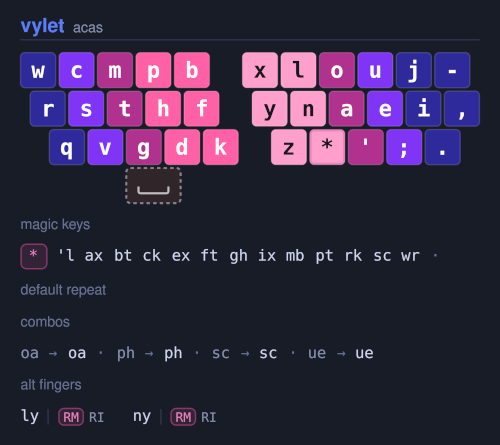
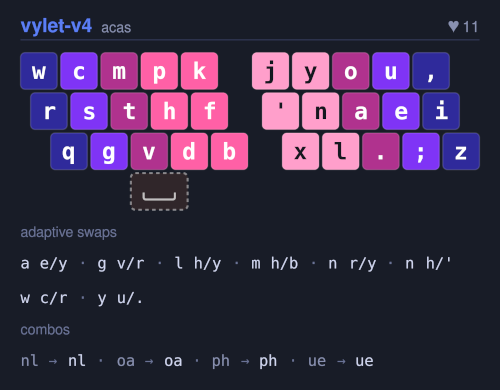
Update vylet to v4

diff --git a/vylet/keymap.c b/vylet/keymap.c
@@ -21,15 +21,14 @@ bool remember_last_key_user(uint16_t keycode, keyrecord_t* record, uint8_t* reme
 // ^ DO NOT MODIFY
 
 
-// w c m p b x l o u j -
-//  r s t h f y n a e i ,
-//   q v g d k z * ' ; .
+// w c m p k j y o u ,
+//  r s t h f ' n a e i
+//   q g v d b x l . ; z
 
 // EXAMPLE KEYMAP
 const uint16_t PROGMEM keymaps[][MATRIX_ROWS][MATRIX_COLS] = {
-    [0] = LAYOUT_all(KC_ESC, KC_1, KC_2, KC_3, KC_4, KC_5, KC_6, KC_7, KC_8, KC_9, KC_0, KC_MINS, KC_EQL, KC_BSPC, KC_TAB, KC_W, KC_C, KC_M, KC_P, KC_B, KC_X, KC_L, KC_O, KC_U, KC_J, KC_MINS, KC_NO, KC_BSLS, KC_CAPS, KC_R, KC_S, KC_T, KC_H, KC_F, KC_Y, KC_N, KC_A, KC_E, KC_I, KC_COMM, KC_ENT, OS_LSFT, KC_Q, KC_V, KC_G, KC_D, KC_K, KC_Z, KC_ADAPTIVE_MAGIC, KC_QUOT, KC_SCLN, KC_DOT, OS_RSFT, KC_LCTL, KC_LALT, KC_NO, KC_SPC, KC_NO, KC_NO, KC_SPC, KC_NO, KC_RALT, KC_RCTL, KC_RGUI)
+    [0] = LAYOUT_all(KC_ESC, KC_1, KC_2, KC_3, KC_4, KC_5, KC_6, KC_7, KC_8, KC_9, KC_0, KC_MINS, KC_EQL, KC_BSPC, KC_TAB, KC_W, KC_C, KC_M, KC_P, KC_K, KC_J, KC_Y, KC_O, KC_U, KC_COMM, KC_LBRC, KC_RBRC, KC_BSLS, KC_ESC, KC_R, KC_S, KC_T, KC_H, KC_F, KC_QUOT, KC_N, KC_A, KC_E, KC_I, KC_SLSH, KC_ENT, OS_LSFT, KC_Q, KC_G, KC_V, KC_D, KC_B, KC_X, KC_L, KC_DOT, KC_QUOT, KC_Z, OS_RSFT, KC_LGUI, KC_LCTL, KC_LALT, KC_SPC, KC_NO, KC_NO, KC_SPC, KC_RALT, KC_RCTL, KC_RGUI, KC_APP)
 };
-
 
 #ifdef OTHER_KEYMAP_C
 #    include OTHER_KEYMAP_C

diff --git a/vylet/README.md b/vylet/README.md
@@ -4,4 +4,4 @@
   
 Site [Link](https://github.com/MightyAcas/vylet)  
 Layouts.wiki [Link](https://layouts.wiki/layouts/2024/vylet)  
-akl.gg [Link](https://akl.gg/#.gQC6MDFNMkNaUThONkpKQ1ZOS1RQTUpWU0pIQkE)
+akl.gg [Link](https://akl.gg/#.gQC6MDFNMkNaUUEyMFJYRlhTNzdCMFBZMzE0RVY)
